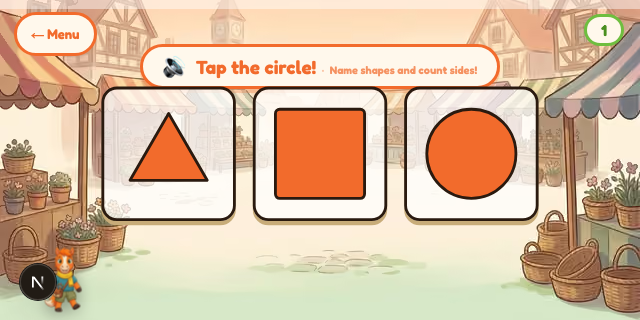
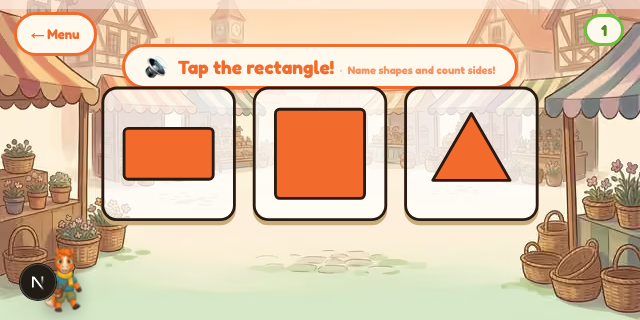
test(3-5): drive all eight, and give five of them a different shape
The change reached eight chapters; the verification covered three. Extending
it to the other five found that the inline shape does not survive a wide
banner or a small bubble — so they get a different treatment rather than the
same one forced on them.

⚠ AND THE COUNT WAS WRONG IN THE FIRST COMMIT AND THE PR BODY: the list is
EIGHT chapters, not nine. `OWNS_CHROME_ROW.length === 8`. Corrected here and
in handoff.md.

- SliceShop wrapped the line to "Halves, thirds and / quarters!" against the
  right edge of a 610px bubble; BlockYard orphaned "numbers!" on a line of its
  own; TickTock's bubble is 13px on a short frame, and 0.58em of that is under
  8px. Those take `DirectionsInline block`: its own centred line under the
  question, with a floor on the size so a small container cannot shrink it
  away. The three pill chapters keep the inline shape, which reads correctly.
- e2e/directions.spec.ts now drives all eight, and gained a fourth assertion:
  giving four chapters their own line makes their banner taller, and the thing
  under a story chapter's banner is usually a control — so the line must not
  move ONTO one either. A one-directional overlap check could not see that.
- Screenshots of all eight at 640×320 under docs/verification/.
- 2 more mutations planted, 2 caught (either bubble reverting to inline).

docs/voice-check-for-tester.md — the plain-English note for the tester to run
`__miloSpeech()` and paste it back. That note is the deliverable for the hull
[…]

Changed region(s): [[0.1875, 0.125, 0.8125, 0.2812], [0.6562, 0.3125, 0.8125, 0.625], [0.1875, 0.3438, 0.3438, 0.5938]]

diff --git a/e2e/directions.spec.ts b/e2e/directions.spec.ts
@@ -26,9 +26,19 @@ const OUT = process.env.SHOT_DIR ?? '.'
 // this asserts the RENDERING, not the copy. A wrong or truncated string still fails; a reworded
 // hint does not, which is right: the words are a product decision and this is a layout check.
 const CASES: Array<{ id: ChapterType; url: string; shot: string; pick?: string }> = [
-  { id: 'measurement',    url: '/story?ch=measure&e2e=practice&world=forest', shot: 'measuring.png' },
-  { id: 'shapes2d3d',     url: '/story?ch=solids&e2e=practice',               shot: 'shape-studio.png', pick: 'Art Studio' },
-  { id: 'compareNumbers', url: '/story?ch=compare&e2e=practice',              shot: 'seesaw-park.png' },
+  // ⚠ ALL NINE CHAPTERS THAT CARRY THE LINE THEMSELVES, not the three the feedback named. The six
+  // added here are the ones whose implementation differs most — SliceShop and TickTock hang it in
+  // Milo's BUBBLE (they set `prompt: () => ''`, so there is no pill to put it in) and BlockYard and
+  // BuildingBlocks in `yard.tsx`'s shared banner — and the most different implementations are the
+  // most likely to break. The other 15 story chapters draw the floating strip and are unchanged.
+  { id: 'measurement',      url: '/story?ch=measure&e2e=practice&world=forest', shot: 'measuring.png' },
+  { id: 'shapes2d3d',       url: '/story?ch=solids&e2e=practice',               shot: 'shape-studio.png', pick: 'Art Studio' },
+  { id: 'compareNumbers',   url: '/story?ch=compare&e2e=practice',              shot: 'seesaw-park.png' },
+  { id: 'fractions',        url: '/story?ch=fractions&e2e=practice',            shot: 'slice-shop.png' },
+  { id: 'time',             url: '/story?ch=time&e2e=practice',                 shot: 'ticktock.png' },
+  { id: 'additionTo100',    url: '/story?ch=add100&e2e=practice',               shot: 'blockyard-add.png' },
+  { id: 'subtractionTo100', url: '/story?ch=sub100&e2e=practice',               shot: 'blockyard-sub.png' },
+  { id: 'placeValue',       url: '/story?ch=place&e2e=practice',                shot: 'building-blocks.png' },
 ]
 
 for (const c of CASES) {
@@ -74,8 +84,20 @@ for (const c of CASES) {
         if (b.left < r.right && b.right > r.left && b.top < r.bottom && b.bottom > r.top && zOf(o) >= zEl)
           covering.push(`${o.tagName}(z${zOf(o)}) ${[b.x | 0, b.y | 0, b.right | 0, b.bottom | 0]}`)
       }
+      // ⚠ AND THE OTHER DIRECTION: the line moving INTO something. Giving four chapters their own
+      // line inside a banner makes that banner taller, and the thing under a story chapter's banner
+      // is usually a control. A one-directional overlap check would not see that at all.
+      const overButtons: string[] = []
+      for (const btn of document.querySelectorAll('button')) {
+        if (btn.contains(el) || el.contains(btn)) continue
+        const b = btn.getBoundingClientRect()
+        if (!b.width || !b.height) continue
+        if (b.left < r.right && b.right > r.left && b.top < r.bottom && b.bottom > r.top)
+          overButtons.push(`${(btn.getAttribute('aria-label') || btn.textContent || '').trim().slice(0, 18)} ${[b.x | 0, b.y | 0, b.right | 0, b.bottom | 0]}`)
+      }
       return {
         rendered: el.textContent!.replace(/^\s*·\s*/, '').trim(),
+        overButtons,
         box: [r.x | 0, r.y | 0, r.right | 0, r.bottom | 0],
         coveredBy: covering,
         clipped: el.scrollWidth > el.clientWidth + 1,
@@ -90,6 +112,7 @@ for (const c of CASES) {
     expect(m!.rendered).toBe(hint)
     expect(m!.coveredBy, `${c.id}: something is painted over the directions line`).toEqual([])
     expect(m!.clipped, `${c.id}: the line is ellipsised`).toBe(false)
+    expect(m!.overButtons, `${c.id}: the directions line is sitting on a control`).toEqual([])
     expect(m!.offscreen).toBe(false)
     expect(m!.overMenu, `${c.id}: the line runs under the ← Menu button`).toBe(false)
     console.log(`RESULT ${c.id} ${JSON.stringify(m)}`)

diff --git a/src/__tests__/chapterDirections.test.ts b/src/__tests__/chapterDirections.test.ts
@@ -58,10 +58,10 @@ describe('every chapter carries a line of typed directions', () => {
   /**
    * ⚠⚠ THE STRIP IS NEVER STACKED ON A CHAPTER'S OWN BANNER, AND THAT IS THE WHOLE OF THE FIX.
    * Laid over MeasureIt at 640×320 it was clipped to "Lay blocks to t…" — the feature failing on one
-   * of the two chapters it was asked for. Nine chapters draw something of their own on that row;
+   * of the two chapters it was asked for. EIGHT chapters draw something of their own on that row;
    * each carries the line INSIDE that element instead, where an overlap is not expressible.
    *
-   * The list is a claim about nine chapters' layout held in a tenth file, so each entry is pinned to
+   * The list is a claim about eight chapters' layout held in a ninth file, so each entry is pinned to
    * the expression it is claiming — change the layout and this fails rather than rotting quietly.
    */
   const ROW: Array<[ChapterType, string, string]> = [
@@ -108,8 +108,15 @@ describe('every chapter carries a line of typed directions', () => {
       const n = src.split(`chapter="${ch}"`).length - 1
       expect(n, `${ch} must carry the line in its lesson banner AND its play bubble`).toBe(2)
     }
+    // ⚠ `block`: its own line under the question, not inline after it. Forced inline into this
+    // banner at 640×320 it orphaned "numbers!" on a line of its own — see `directions.tsx`.
     expect(read('src/features/chapters/story/yard.tsx'), "BlockYard/BuildingBlocks' shared banner lost the line")
-      .toContain('{chapter && <DirectionsInline chapter={chapter} />}')
+      .toContain('{chapter && <DirectionsInline chapter={chapter} block />}')
+    // The two bubbles take the same shape, and for the same reason.
+    for (const f of ['SliceShop', 'TickTock']) {
+      expect(read(`src/features/chapters/story/${f}.tsx`), `${f}'s bubble stopped giving the line its own row`)
+        .toContain('<DirectionsInline chapter={chapter} block />')
+    }
     for (const f of ['BlockYard', 'BuildingBlocks']) {
       const n = read(`src/features/chapters/story/${f}.tsx`).split('chapter=').length - 1
       expect(n, `${f} draws two banners and both must carry the line`).toBe(2)

diff --git a/src/features/chapters/directions.tsx b/src/features/chapters/directions.tsx
@@ -43,10 +43,26 @@ export const ownsChromeRow = (chapter: ChapterType): boolean => OWNS_CHROME_ROW.
 /**
  * The direction as part of somebody else's line — smaller and quieter than the question beside it,
  * because the question is what is being answered and this is the standing "how you play".
+ *
+ * ⚠⚠ TWO SHAPES, AND WHICH ONE A CHAPTER GETS WAS DECIDED BY LOOKING AT THE RENDERED SCREEN, NOT
+ * BY SYMMETRY. Inline is right after a SHORT question in a pill (MeasureIt, ShapeStudio, SeesawPark:
+ * one line, reads as an aside). Forced into a wide banner or a small bubble it breaks: at 640×320
+ * SliceShop wrapped it to `Halves, thirds and / quarters!` against the right edge of a 610px bubble,
+ * BlockYard orphaned `numbers!` on a line of its own, and TickTock's bubble is 13px on a short
+ * frame — 0.58em of that is under 8px, which is not a line anybody reads.
+ *
+ * So those four take `block`: its own centred line under the question, with a FLOOR on the size so a
+ * small container cannot shrink it out of existence. Same words, same element, no overlay either way.
  */
-export function DirectionsInline({ chapter }: { chapter: ChapterType }) {
+export function DirectionsInline({ chapter, block }: { chapter: ChapterType; block?: boolean }) {
   const text = directionsFor(chapter)
   if (!text) return null
+  if (block) {
+    return (
+      <span style={{ display: 'block', marginTop: 3, fontSize: 'max(11px, 0.6em)', fontWeight: 800,
+        opacity: 0.66, lineHeight: 1.2, whiteSpace: 'normal' }}>{text}</span>
+    )
+  }
   return (
     <span style={{ fontSize: '0.58em', fontWeight: 800, opacity: 0.72, whiteSpace: 'normal' }}>
       <span aria-hidden style={{ margin: '0 0.5em', opacity: 0.5 }}>·</span>{text}

diff --git a/src/features/chapters/story/TickTock.tsx b/src/features/chapters/story/TickTock.tsx
@@ -301,7 +301,7 @@ function Bubble({ L: l, text, dark, chapter }: { L: L; text: string; dark: boole
       fontFamily: 'var(--font-display)', fontWeight: 700, lineHeight: 1.15, textAlign: 'center',
       fontSize: l.short ? 13 : 17, color: dark ? '#fff' : 'var(--ink)',
     }}>
-      <span>{text}{chapter && <DirectionsInline chapter={chapter} />}</span>
+      <span>{text}{chapter && <DirectionsInline chapter={chapter} block />}</span>
       {/* the tail — what keeps the words visibly HIS rather than a banner pinned to the frame */}
       <span aria-hidden style={{
         position: 'absolute', bottom: -11, left: `${l.tailPct}%`, width: 0, height: 0,

diff --git a/src/features/chapters/story/SliceShop.tsx b/src/features/chapters/story/SliceShop.tsx
@@ -367,7 +367,7 @@ function Bubble({ L: l, text, chapter }: { L: L; text: string; chapter?: Chapter
       fontFamily: 'var(--font-display)', fontWeight: 700, lineHeight: 1.15, textAlign: 'center',
       fontSize: l.short ? 13 : 17, color: 'var(--ink)',
     }}>
-      <span>{text}{chapter && <DirectionsInline chapter={chapter} />}</span>
+      <span>{text}{chapter && <DirectionsInline chapter={chapter} block />}</span>
       {/* the tail — what keeps the words visibly HIS rather than a banner pinned to the frame */}
       <span aria-hidden style={{
         position: 'absolute', bottom: -11, left: `${l.tailPct}%`, width: 0, height: 0,

diff --git a/src/features/chapters/DirectionsCard.tsx b/src/features/chapters/DirectionsCard.tsx
@@ -13,7 +13,7 @@
  * construction — a second per-chapter map would be a copy, and the chapters somebody forgot to add
  * to it would silently show nothing at all.
  *
- * ⚠ NOT IN EVERY CHAPTER: the three that draw their own banner on this row carry the line inside
+ * ⚠ NOT IN EVERY CHAPTER: the eight that draw their own banner on this row carry the line inside
  * that banner instead (`ownsChromeRow`), so nothing is ever stacked on anything.
  *
  * ⚠⚠ IT LIVES ON THE MENU ROW, AND THAT IS THE ONLY PLACE IN A STORY CHAPTER WITH ROOM — measured,

diff --git a/src/features/chapters/story/yard.tsx b/src/features/chapters/story/yard.tsx
@@ -329,7 +329,7 @@ export function Banner({ text, vh, ok, side, lead, chapter }: {
           <span style={{ flexShrink: 0, fontWeight: 900, lineHeight: 1,
             fontSize: `clamp(24px, ${Math.round(vh * 0.075)}px, 44px)`, color: 'var(--ink)' }}>{lead}</span>
         )}
-        <span>{text}{chapter && <DirectionsInline chapter={chapter} />}</span>
+        <span>{text}{chapter && <DirectionsInline chapter={chapter} block />}</span>
       </div>
     </div>
   )

diff --git a/handoff.md b/handoff.md
@@ -183,34 +183,57 @@
 **The words come from the catalogue's own `hint`**, which is already `Record<ChapterType, …>`-complete: every chapter has a line **by construction**, and a second per-chapter map is exactly what would let one ship with none. Two hints were rewritten from topic to action (`shapes` → *"Tap the shape that fits the empty hole!"*, `measurement` → *"Lay blocks, then tap Done!"*).
 - **12–18 (`GameShell`)**: a **flex child of the header row**, beside the chapter title. Dropped there as a `fixed` card first, it covered the title at 640×320 — measured. In the row an overlap is not expressible.
 - **The 3–11 storybook chapters**: a small `pointerEvents: none` strip on the Menu row, wired once in `ChapterPortal` (+ counting's own wrapper), so 24 chapters get it from one place.
-- ⚠⚠ **AND THE PART THAT WAS WRONG AND IS THE LESSON: A FLOATING STRIP ON THAT ROW IS EITHER OVER THE QUESTION OR UNDER IT.** Nine story chapters draw their own banner there — MeasureIt lifts its question pill to `pillTop(short) = 14` to buy height for the blocks, ShapeStudio and SeesawPark sit at `top: 12`, SliceShop and TickTock at `CHROME_PAD`, and BlockYard/BuildingBlocks use `yard.tsx`'s `BANNER_TOP`, which is **25px on a 720-tall frame**. Ranking the strip underneath them (z 42) kept the question readable and **clipped the directions to "Lay blocks to t…" on one of the two chapters the tester asked for**. Founder's call, and it is the right one: **do not stack — the chapter's own banner carries the line.**
-  - `ownsChromeRow()` (in `features/chapters/directions.tsx`) suppresses the strip for those nine; `SkillBeat`'s prompt pill carries the line inline for the ones that have a pill, `yard.tsx`'s shared banner for BlockYard/BuildingBlocks, and **Milo's bubble** for SliceShop and TickTock — the two that set `prompt: () => ''`, whose scored rounds would otherwise show no directions at all.
+- ⚠⚠ **AND THE PART THAT WAS WRONG AND IS THE LESSON: A FLOATING STRIP ON THAT ROW IS EITHER OVER THE QUESTION OR UNDER IT.** Eight story chapters draw their own banner there — MeasureIt lifts its question pill to `pillTop(short) = 14` to buy height for the blocks, ShapeStudio and SeesawPark sit at `top: 12`, SliceShop and TickTock at `CHROME_PAD`, and BlockYard/BuildingBlocks use `yard.tsx`'s `BANNER_TOP`, which is **25px on a 720-tall frame**. Ranking the strip underneath them (z 42) kept the question readable and **clipped the directions to "Lay blocks to t…" on one of the two chapters the tester asked for**. Founder's call, and it is the right one: **do not stack — the chapter's own banner carries the line.**
+  - `ownsChromeRow()` (in `features/chapters/directions.tsx`) suppresses the strip for those eight; `SkillBeat`'s prompt pill carries the line inline for the ones that have a pill, `yard.tsx`'s shared banner for BlockYard/BuildingBlocks, and **Milo's bubble** for SliceShop and TickTock — the two that set `prompt: () => ''`, whose scored rounds would otherwise show no directions at all.
   - ⚠ **HopAlong is deliberately NOT on the list** even though its round row sits at `top: 40`: it renders no pill there (its ask is a pill at the bottom), so the strip has the row to itself. **Measured at 640×320, not assumed.**
 - ⚠ **The prose was the lever, exactly as chapter-craft says.** With the direction inline, MeasureIt's pill ran 86 → 553 and slid 10px under the ← Menu button; shortening the hint to *"Lay blocks, then tap Done!"* put it at 123 → 553, clear. A hint budget of 50 characters is gated, because both surfaces render one line.
 
-## 🔬 VERIFIED BY MEASURING, AT 640×320, ON EVERY CHAPTER THAT CHANGED SHAPE
-Not by eye: for each, the element carrying the line was found in the DOM and checked for `scrollWidth > clientWidth` (truncation), for going off-frame, and for crossing the ← Menu button.
+## 🔬 VERIFIED BY MEASURING, AT 640×320, ON ALL EIGHT CHAPTERS THAT CARRY THE LINE THEMSELVES
+`e2e/directions.spec.ts` (needs a dev server; not part of `npm test`). Three mechanisms per chapter,
+none of which subsumes another — plus a fourth added when giving four chapters their own line made
+their banner taller: the line must not move onto a control either.
 
-| chapter | carrier | box | truncated | overlaps |
-|---|---|---|---|---|
-| Measuring | SkillBeat pill, inline | 351–496 × 31–44 | no | none |
-| Shape Studio | SkillBeat pill, inline | 315–476 × 63–76 | no | none |
-| Seesaw Park | SkillBeat pill, inline | 351–486 × 63–76 | no | none |
-| TickTock | Milo's bubble | 436–497 × 68–77 | no | none |
-| Slice Shop | Milo's bubble | 314–609 × 60–85 | no | none |
-| BlockYard | yard banner (wraps to 2 lines inside it) | 227–355 × 61–86 | no | none |
-| HopAlong | the strip | 104–544 × 14–38 | no | none |
-| The Mission Brief (12–18) | GameShell header | header row | no | none |
+⚠⚠ **THE FIRST VERSION OF THAT SPEC COULD NOT SEE THE DEFECT IT WAS WRITTEN FOR, AND THE FOUNDER
+SPECIFIED IT.** Text equality + `scrollWidth`/`clientWidth` **passed on last session's clipped
+build**: the whole string was in the DOM and the chapter's question pill was painted OVER it. **The
+defect was occlusion, not overflow.** Re-written as a paint-order check it goes red naming
+`BUTTON(z45) 192,12,447,57` — MeasureIt's own pill. ⚠ And its own first draft skipped that button by
+filtering on `position !== 'static'`; the covering pill IS static and takes its stacking from an
+ancestor. **Two wrong instruments in a row for one defect.** The general rule is now the founder's,
+at the top of [CLAUDE.md](CLAUDE.md): *an assertion that passes on the known-bad state is not a check.*
+
+| chapter | carrier | box | rendered === hint | covered | on a control |
+|---|---|---|---|---|---|
+| Measuring | pill, inline | 352,31 → 496,45 | ✅ | none | none |
+| Shape Studio | pill, inline | 334,63 → 495,77 | ✅ | none | none |
+| Seesaw Park | pill, inline | 351,63 → 487,77 | ✅ | none | none |
+| Slice Shop | Milo's bubble, own line | 85,73 → 574,87 | ✅ | none | none |
+| TickTock | Milo's bubble, own line | 192,73 → 467,87 | ✅ | none | none |
+| BlockYard + | yard banner, own line | 117,107 → 369,120 | ✅ | none | none |
+| BlockYard − | yard banner, own line | 117,91 → 369,104 | ✅ | none | none |
+| Building Blocks | yard banner, own line | 342,91 → 595,104 | ✅ | none | none |
+
+⚠ **AND FIVE OF THE EIGHT NEEDED A DIFFERENT SHAPE, WHICH ONLY LOOKING AT THE SCREEN SHOWED.**
+Inline after a SHORT question in a pill is right (the three the feedback named). Forced into a wide
+banner or a small bubble it breaks: SliceShop wrapped to `Halves, thirds and / quarters!` against the
+right edge of a 610px bubble, BlockYard orphaned `numbers!` on a line of its own, and TickTock's
+bubble is 13px on a short frame — 0.58em of that is **under 8px**. Those four (five chapters) take
+`block`: its own centred line under the question, with a **floor** on the size so a small container
+cannot shrink it away. Screenshots of all eight in `docs/verification/2026-08-31-directions/`.
 
 ## 🧪 24 MUTATIONS, 24 CAUGHT — AND ONE SURVIVED FIRST AND IS WORTH KEEPING
 `src/__tests__/chapterDirections.test.ts`. Every check here is about a STRING A CHILD READS, which nothing else in the repo can see.
 ⚠ **The one that survived: deleting `chapter="fractions"` from SliceShop's PLAY bubble left the gate green**, because the same chapter's LESSON banner carries the same string — the count-the-right-thing trap from CLAUDE.md, again. The check is anchored on the play call AND counts both occurrences now, and the same was done for TickTock.
-⚠ **The exception list is a claim about nine chapters' layout held in a tenth file**, so each entry is pinned to the expression it claims (`pillTop`, `CHROME_PAD`, `BANNER_TOP`): change one of those layouts and the gate fails rather than rotting.
+⚠ **The exception list is a claim about eight chapters' layout held in a ninth file**, so each entry is pinned to the expression it claims (`pillTop`, `CHROME_PAD`, `BANNER_TOP`): change one of those layouts and the gate fails rather than rotting.
 
 ## ▶ OPEN
 1. 🔴 **THE HULL SILENCE IS UNRESOLVED AND UNMEASURED.** See ②. It needs one run on a device with a working voice and a paste of `__miloSpeech()`. **Nothing in this session may be read as having fixed it.**
+   📄 **The deliverable is the note, not the diary**: [docs/voice-check-for-tester.md](docs/voice-check-for-tester.md)
+   is written for the tester, assumes no technical knowledge, and is the thing to forward — ⚠ **only
+   once this is deployed**, or its last step answers `__miloSpeech is not defined` and they have spent
+   their time for nothing.
 2. 🎙 Recorded clips for 3–11 remain the founder's to start (a voice choice and the ElevenLabs spend) — and if ② turns out to be the Chromium stall, clips route around it entirely for the lines that have them.
-3. ⏸ **Still not committed.** Everything above is in the working tree.
+3. ⏸ **PR [#69](https://github.com/RadlorInc/learn/pull/69) is open and NOT merged.** Merge order agreed with the founder: **#68 first**, then rebase #69 onto `main` and resolve `handoff.md` in the branch (keeping both blocks), so the resolution is reviewable rather than buried in a merge commit.
 4. ⚠ **The intro/demo screens of BlockYard, BuildingBlocks and HopAlong** show the line only where their banner or the pill renders; no chapter is left without it in a scored round, which is where it was asked for.
 5. ⏭ **PR [#68](https://github.com/RadlorInc/learn/pull/68) is still open and unmerged** from 2026-08-28 (chapter 2's tag overhang, chapter 4's cluster scale), and the `counting` case of `ready-bar.spec.ts` is still flaky.
 

diff --git a/CLAUDE.md b/CLAUDE.md
@@ -8,7 +8,16 @@ The most expensive defect class in this repo is not a bug. It is **something tha
 and isn't** — a gate, grep, guard or test that reports success while examining nothing. It is worse
 than having no check at all, because it is what stops the next person looking.
 
-Sixteen of them across 2026-08-24/25, and the mechanisms have nothing in common. **This table is
+⚠⚠ **THE FOUNDER'S RULE, WRITTEN AFTER HIS OWN CHECK CERTIFIED A DEFECT HE HAD PHOTOGRAPHED (2026-08-31):
+AN ASSERTION THAT PASSES ON THE KNOWN-BAD STATE IS NOT A CHECK. EVERY NEW CHECK GETS RUN AGAINST THE
+DEFECT IT WAS WRITTEN FOR, AND MUST GO RED, BEFORE IT IS TRUSTED.** Not a similar defect, not a
+plausible one — **that** one, in the state it was in. It costs one `git stash` and one run, and it is
+the only step that tells a real check from a decorative one. ⚠ And when it passes on the bad state,
+the finding is not "the check needs tightening": **you have the MECHANISM wrong**, and the check you
+have been writing is measuring something else.
+
+Seventeen of them now, sixteen across 2026-08-24/25 and one on 2026-08-31, and the mechanisms have
+nothing in common. **This table is
 meant to grow — a frozen list becomes decoration itself.** Add the next one rather than admiring it:
 
 | what it looked like | what it was |
@@ -28,11 +37,13 @@ meant to grow — a frozen list becomes decoration itself.** Add the next one ra
 | ⚠⚠ **…and the FINDING I reported off that suite — "the first real purchase would have seated nobody"** | **a defect inferred from source and never measured — by the person writing the rule against exactly that.** I read a `REVOKE` with no matching `GRANT` and published the impact. One query settled it: Supabase's default privileges grant `service_role=X/postgres` explicitly and a revoke from `public, anon, authenticated` cannot remove it — four live functions of identical shape all read `{postgres=X,service_role=X}`. **A check-shaped FINDING needs the same positive control as a check**: *"this gate is blind"* is a claim, and it goes in this table only after it has been watched failing. Reading the repo answers what we intended; only querying production answers what is true |
 | ⚠⚠ **…and the READER'S half of that one — the founder's own, added by him** | **a claim gains confidence each time it is repeated by someone who did not verify it.** I wrote *"would have"*; he wrote *"would have, and here is what it would have cost"*. **Nothing was measured in between — the certainty was manufactured by relay**, and it had already happened once that week (the environment-name trap). The producer's rule is *do not report what you have not watched fail*; the consumer's is **do not amplify a finding past the evidence it arrived with — if a report says "would have", ask "did you watch it?" before repeating it.** Neither half is enough alone: the second is the only one that catches an inference the first person believed |
 | ⚠ **AND THE RULE #14 LEAVES BEHIND, WHICH IS WHY IT IS HERE AS ITS OWN LINE** | **A NEGATIVE TEST WITHOUT ITS POSITIVE TWIN IS HALF A CHECK.** *"Nobody unauthorised can call it"* and *"nobody at all can call it"* are the same green. **Every REVOKE assertion needs a paired GRANT assertion — and the pair must be DRIVEN AS THE REAL CALLER**, not as the superuser a suite happens to run as. ⚠ And note WHEN this class fires when it is real: not in development and not on a test account, but on the **first real purchase** — a parent pays, a flawless row appears, their child stays locked out, and every dashboard, test and log says fine. That cost is why the paired assertion is worth writing **even where you have measured the permission to be already in place**: what it buys is that the property stops depending on a platform default nobody in the repo controls |
+| a text-equality + overflow check written for a line that rendered as "Lay blocks to t…" | **the wrong mechanism, and it was specified by the person who had SEEN the defect.** The whole string was in the DOM and `scrollWidth`/`clientWidth` were clean: the chapter's own question pill was painted OVER the strip, so the fault was OCCLUSION and the check measured OVERFLOW. It passed on the known-bad build — i.e. it would have certified the photographed defect as fixed. Re-written as a paint-order check it goes red naming `BUTTON(z45) 192,12,447,57`, which is the pill. ⚠ Its own first draft then skipped that button, because it filtered on `position !== 'static'` and the covering pill IS static — it takes its stacking from an ancestor. **Two wrong instruments in a row for one defect, both written by someone looking straight at it** |
 | a source gate reading `src.slice(at, at + 700)` | **a proxy for the boundary it meant.** A byte budget stands in for "this statement" / "this element", and ANY edit that adds bytes before the target moves it out of the window — after which the gate reports confidently about text it never saw. **Three times in one session** (a policy window running into the next policy; a 700-char slice losing its call when a prop was added above it; a window stopping at the first `) : (` *inside* the ternary it was checking). Not three mistakes — one technique that does not work |
 
 A skip, a shape, a moment, an order, a flag, a dead clause, a wrong target, a one-valued metric, an
 artefact without the feature, a world without the bug, a proxy boundary, a drifted fixture, a
-one-sided permission, a finding published without one, and that finding amplified by its reader. **You
+one-sided permission, a finding published without one, that finding amplified by its reader, and a
+check aimed at the wrong mechanism entirely. **You
 cannot learn to spot these by pattern** — nothing about any of them looked wrong, and four
 were written by someone who had just written down the rule that catches them. The only thing
 separating a real check from these is having watched it go red for the reason it exists.

diff --git a/docs/voice-check-for-tester.md b/docs/voice-check-for-tester.md
@@ -1,0 +1,106 @@
+# Milo's voice went quiet — what we need you to send us
+
+Thank you for reporting this. You told us that in **Milo's House**, when you got to the boat's
+hull, Milo stopped speaking.
+
+We have not been able to make it happen on any computer we have here, so we cannot tell yet
+*why* it went quiet. There are two very different reasons it could be, and they need two
+different fixes — so before we change anything, we need to see what happened on **your** device.
+
+We have added a small thing to the app that quietly writes down, for each sentence Milo tries to
+say, whether it actually started and whether it finished. It takes about five minutes to collect,
+and you do not need to know anything technical. It is nine steps.
+
+---
+
+> ⚠ **Send this only once the new version is live.** The notes it asks for are collected by
+> something we added on 2026-08-31 — on an older build the last step will say
+> `__miloSpeech is not defined`, and the tester will have spent their time for nothing.
+
+## What you need
+
+- The same computer you were testing on
+- The Chrome web browser
+- Sound turned on, and your volume up
+
+## Step by step
+
+**1.** Open Chrome and go to the app as usual, and start a child's session.
+
+**2.** Open **Milo's House** (the shape chapter — Milo builds a house out of shapes).
+
+**3.** Play it normally, with the sound on. Do not skip anything and do not refresh the page
+— if the page reloads, the notes are lost and you have to start again.
+
+**4.** Keep playing until Milo goes quiet — you said this happened around the boat's **hull**,
+which is the first piece of the boat, after the house is finished. If he does *not* go quiet
+this time, just play to the end of the chapter; that is a useful answer too, and you can say so.
+
+**5.** The moment you notice he has stopped speaking, **stop playing** and leave the page open.
+Do not close the tab, do not press refresh.
+
+**6.** Press these keys together to open Chrome's developer panel:
+
+- **Windows:** `Ctrl` + `Shift` + `J`
+- **Mac:** `Cmd` + `Option` + `J`
+
+A panel opens at the side or the bottom of the window, with a blinking cursor next to a `>`
+symbol. That is all you need — you can ignore everything else in there, including any red text.
+Nothing you do here can break anything.
+
+**7.** Click next to that `>` symbol, type this exactly, and press Enter:
+
+```
+copy(JSON.stringify(__miloSpeech(), null, 2))
+```
+
+*(If typing it is awkward, copy the line from this document and paste it in. If Chrome asks you
+to allow pasting, it may ask you to type the words `allow pasting` first — that is a normal
+Chrome safety prompt.)*
+
+**8.** That command has copied the notes to your clipboard. Paste them into an email or a
+message to us (`Ctrl`/`Cmd` + `V`).
+
+**9.** Please also tell us, in your own words:
+
+- roughly **where** in the chapter he went quiet (which piece was he asking for?)
+- whether he was speaking **normally before that**, or had been quiet from the start
+- whether **any other sound** in the app still worked
+- what device and browser you were on
+
+---
+
+## What it looks like when it worked
+
+You will paste something that starts like this. You do not have to understand it — but if you
+are curious, the useful part is the four numbers at the top:
+
+```json
+{
+  "spoken": 14,
+  "started": 9,
+  "hung": 1,
+  "silent": 4,
+  ...
+}
+```
+
+- **spoken** — how many sentences Milo tried to say
+- **started** — how many actually began out loud
+- **hung** — began, and then never finished. **This is the one we are hunting.**
+- **silent** — never began at all
+
+## If something goes wrong
+
+- **`__miloSpeech is not defined`** — the app on that computer is an older version than the one
+  with this in it. Tell us and we will check what is deployed before you try again.
+- **You cannot find the `>` cursor** — look for a tab called **Console** along the top of the
+  panel that opened, and click it.
+- **You refreshed the page by accident** — the notes are gone; start again from step 1. It is
+  not a problem, it just has to be one unbroken run.
+
+---
+
+That is everything. This tells us in one go whether Milo's voice is being cut off part way
+through a chapter, or never starting on your device at all — and those two need different
+fixes, which is why we would rather not guess.
